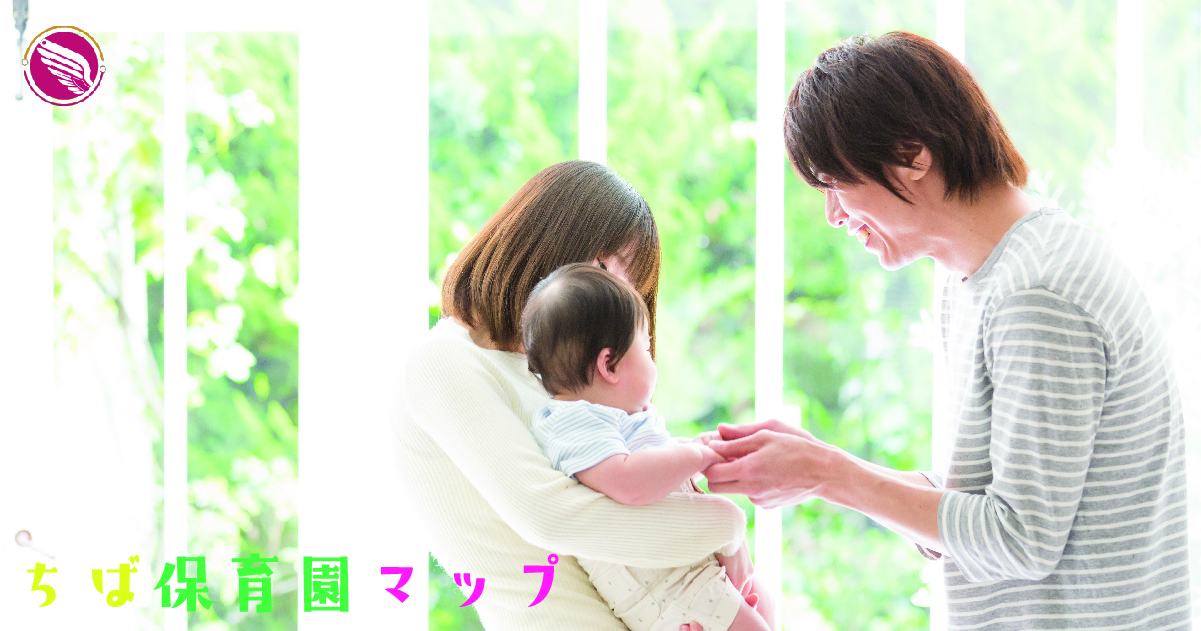
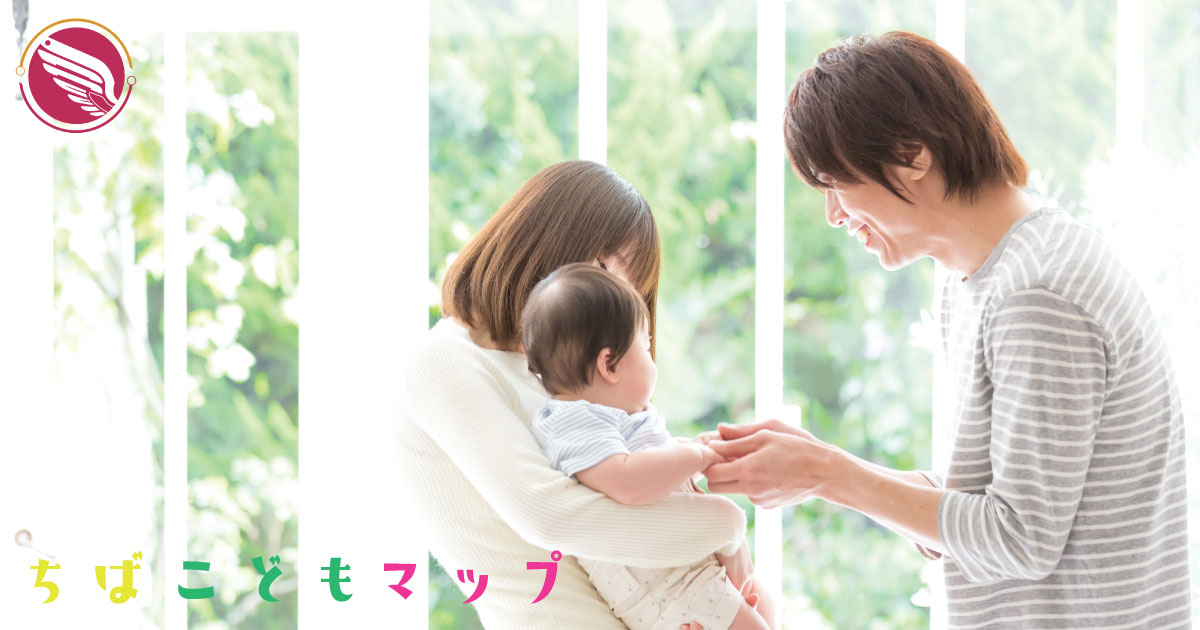
名前変更のため、メタ情報や OGP の更新

diff --git a/nuxt.config.js b/nuxt.config.js
@@ -5,9 +5,10 @@ const envConfig = require(`./config/environments/${environment}.js`);
 
 const containerId = process.env.GTM_CONTAINER_ID;
 
-const title = "ちば保育園マップ powered by Code for Chiba";
+const serviceName  = 'ちばこどもマップ'
+const title = `${serviceName} powered by Code for Chiba`;
 const description = "千葉市在住在勤の忙しいパパママの子育てを応援するため、" +
-  "簡単にお好みの保育施設を探せるサービスです。";
+  "簡単にお好みの保育施設や学童施設を探せるサービスです。";
 
 module.exports = {
   ssr: false,
@@ -20,7 +21,7 @@ module.exports = {
       prefix: 'og: http://ogp.me/ns#'
     },
     titleTemplate: (titleChunk) => {
-      return titleChunk ?  `${titleChunk} - ちば保育園マップ` : "ちば保育園マップ powered by Code for Chiba"
+      return titleChunk ?  `${titleChunk} - ちばこどもマップ` : "ちばこどもマップ powered by Code for Chiba"
     },
     meta: [
       { charset: "utf-8" },
@@ -37,7 +38,7 @@ module.exports = {
     ],
     link: [
       { rel: "icon", type: "image/x-icon", href: "/favicon.ico" },
-      { rel: "stylesheet", href: "https://api.tiles.mapbox.com/mapbox-gl-js/v1.6.0/mapbox-gl.css" }
+      { rel: "stylesheet", href: "https://api.mapbox.com/mapbox-gl-js/v1.12.0/mapbox-gl.css" }
     ]
   },
   plugins: [
